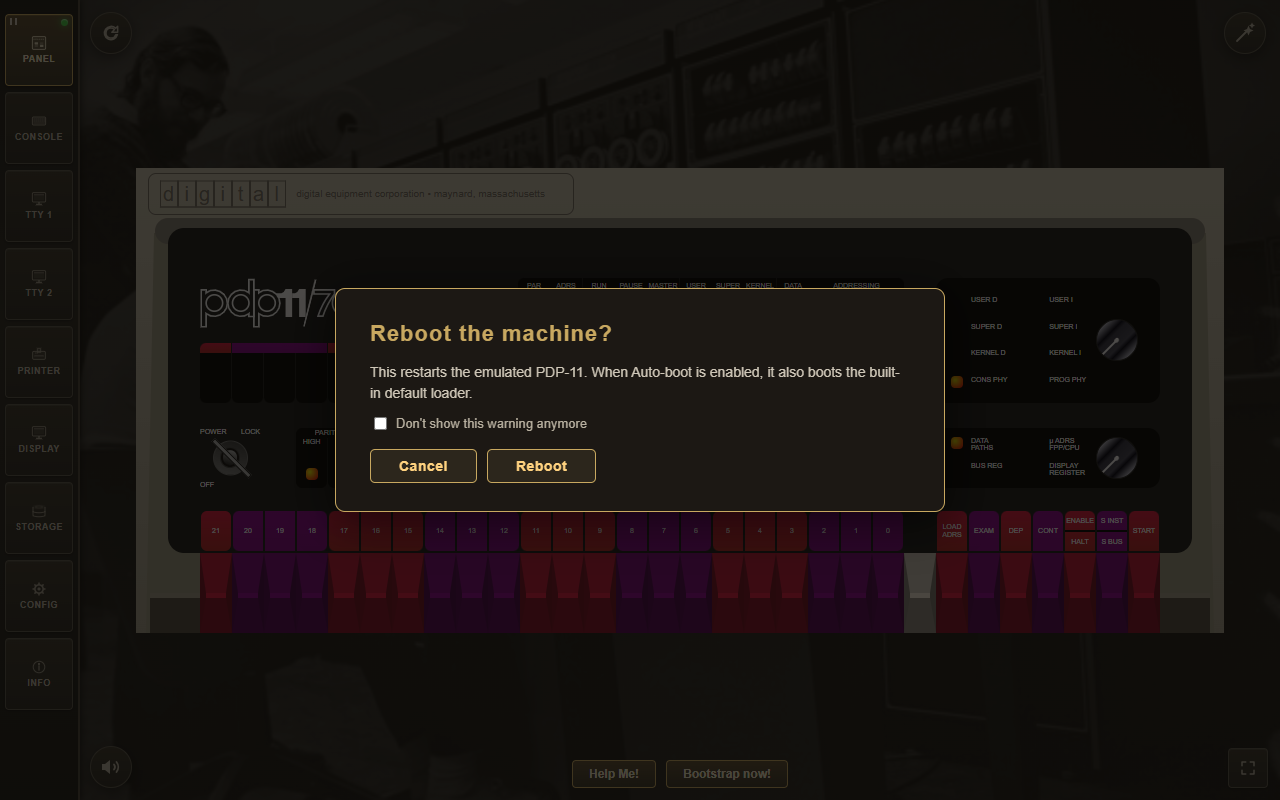
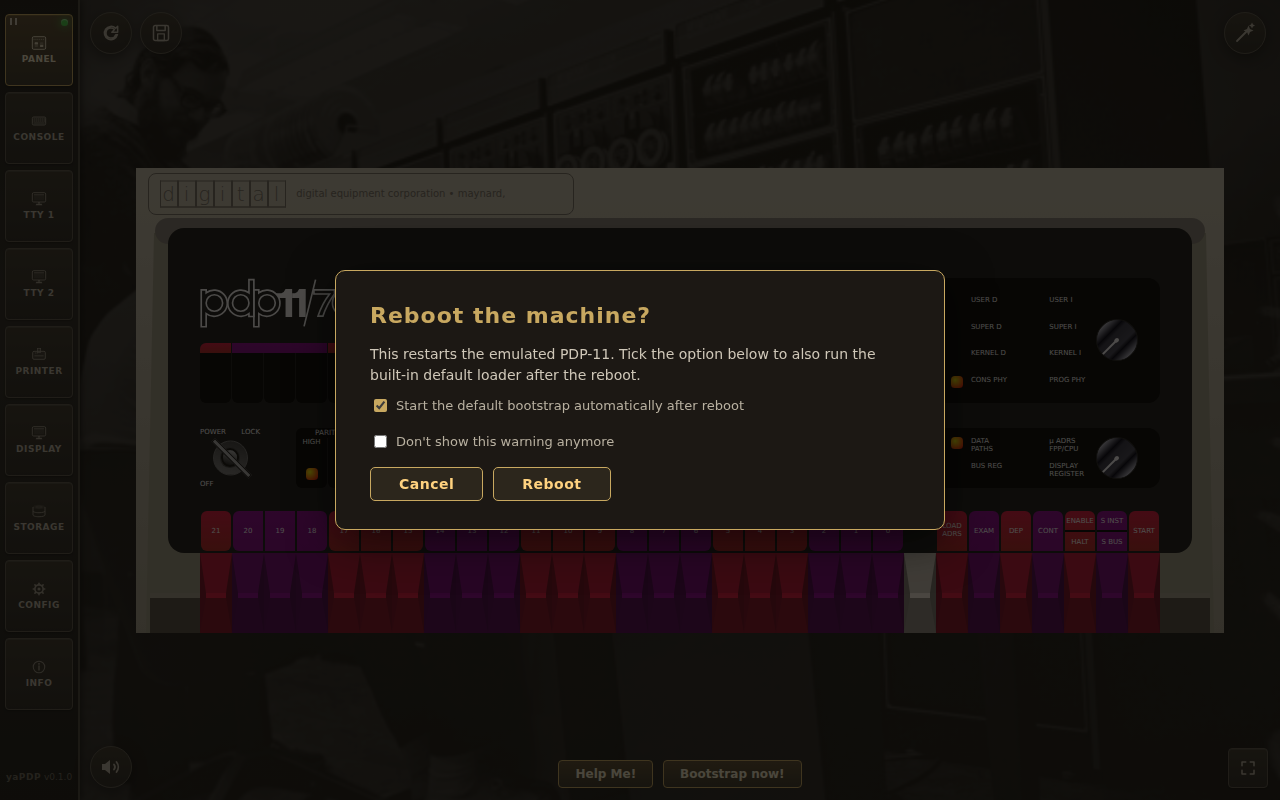
Reboot dialog: 'Start the default bootstrap automatically after reboot' checkbox (Auto-boot shortcut, synced with CONFIG|BEHAVIOUR)

diff --git a/src/pdp11-panel.js b/src/pdp11-panel.js
@@ -509,13 +509,29 @@ function examineDeposit(data) {
     rebootConfirmOverlay.innerHTML =
       '<div class="modal-box">' +
         '<span class="modal-title">Reboot the machine?</span>' +
-        '<p class="modal-intro">This restarts the emulated PDP-11. When Auto-boot is ' +
-        'enabled, it also boots the built-in default loader.</p>' +
+        '<p class="modal-intro">This restarts the emulated PDP-11. Tick the option ' +
+        'below to also run the built-in default loader after the reboot.</p>' +
+        '<label class="modal-dontask"><input type="checkbox" id="reboot-autoboot"> ' +
+        'Start the default bootstrap automatically after reboot</label>' +
         '<label class="modal-dontask"><input type="checkbox" id="reboot-dont-ask"> ' +
         'Don\'t show this warning anymore</label>' +
         '<button type="button" class="modal-close" data-reboot-action="cancel">Cancel</button>' +
         '<button type="button" class="modal-close" data-reboot-action="reboot">Reboot</button>' +
       '</div>';
+    // The new checkbox is a shortcut to the CONFIG|BEHAVIOUR Auto-boot option:
+    // persist it immediately and keep the Config form checkbox in sync so it
+    // never shows a stale value (autoBoot is not part of isDirty(), so the
+    // dirty marker stays untouched either way).
+    var rebootAutobootEl = rebootConfirmOverlay.querySelector('#reboot-autoboot');
+    if (rebootAutobootEl) {
+      rebootAutobootEl.addEventListener('change', function () {
+        if (typeof Config !== 'undefined' && Config.set) {
+          Config.set({ autoBoot: this.checked });
+        }
+        var cfgEl = document.getElementById('config-autoBoot');
+        if (cfgEl) cfgEl.checked = this.checked;
+      });
+    }
     rebootConfirmOverlay.addEventListener('click', function (e) {
       var action = e.target.getAttribute && e.target.getAttribute('data-reboot-action');
       if (action === 'cancel' || e.target === rebootConfirmOverlay) {
@@ -532,8 +548,12 @@ function examineDeposit(data) {
           var confirmRebootEl = document.getElementById('config-confirmReboot');
           if (confirmRebootEl) confirmRebootEl.checked = false;
         }
+        // This reboot follows the dialog's Auto-boot checkbox (a live mirror
+        // of the CONFIG|BEHAVIOUR option, persisted on change above).
+        var rebootAutoboot = document.getElementById('reboot-autoboot');
+        var autoboot = rebootAutoboot ? rebootAutoboot.checked : false;
         rebootConfirmOverlay.classList.remove('visible');
-        doReboot();
+        doReboot(autoboot);
       }
     });
     document.body.appendChild(rebootConfirmOverlay);
@@ -544,6 +564,13 @@ function examineDeposit(data) {
     var overlay = ensureRebootConfirm();
     var dontAsk = document.getElementById('reboot-dont-ask');
     if (dontAsk) dontAsk.checked = false; // never carry a stale "don't ask" tick
+    // Mirror the persisted Auto-boot choice every time the dialog opens, so
+    // the checkbox always reflects the config (it can change on the CONFIG
+    // page or via a snapshot restore while the dialog exists).
+    var autobootEl = document.getElementById('reboot-autoboot');
+    if (autobootEl && typeof Config !== 'undefined' && Config.get) {
+      autobootEl.checked = !!Config.get().autoBoot;
+    }
     overlay.classList.add('visible');
   }
 

diff --git a/manual.html b/manual.html
@@ -697,7 +697,8 @@
                         <li><b>Machine power</b> — the machine is powered on; switching it off powers down the PDP-11
                             (POWER LOCK in the off position).</li>
                         <li><b>Auto-boot</b> — start the default bootstrap automatically when the machine is powered
-                            on.</li>
+                            on or rebooted. The reboot confirmation dialog offers a shortcut to this option (its
+                            "Start the default bootstrap automatically after reboot" checkbox).</li>
                         <li><b>First-run hint</b> — replay the first-run welcome overlay with quick-start boot
                             suggestions on the next launch.</li>
                     </ul>
@@ -889,7 +890,10 @@
                         <td>Round button with a restart icon. Restarts the machine; when <a href="#config">Auto-boot</a>
                             is enabled it
                             also boots the built-in default loader. By default a confirmation dialog asks first, with
-                            a "Don't show this warning anymore" option.</td>
+                            a "Don't show this warning anymore" option. The dialog also carries an Auto-boot shortcut:
+                            tick <b>Start the default bootstrap automatically after reboot</b> to run the default
+                            loader after this reboot — it is the CONFIG <b>Auto-boot</b> option itself, persists, and
+                            stays in sync with the CONFIG page checkbox.</td>
                     </tr>
                     <tr>
                         <td class="disk control-cell">

diff --git a/pdp11.html b/pdp11.html
@@ -265,7 +265,7 @@
          data-action="reboot"; shown on the Panel, teletype and VT52 (TTY 1)
          pages. -->
     <button type="button" id="reboot-btn" class="console-reboot" data-action="reboot"
-      title="Restart the machine. With Auto-boot enabled, boots the built-in default loader."
+      title="Restart the machine. With Auto-boot enabled, boots the built-in default loader (toggle it in the confirmation dialog)."
       aria-label="Restart the machine">
       <svg class="console-reboot-icon" aria-hidden="true" focusable="false">
         <use href="#icon-reboot" />

diff --git a/CHANGELOG.md b/CHANGELOG.md
@@ -88,6 +88,12 @@ and this project adheres to [Semantic Versioning](https://semver.org/spec/v2.0.0
   all-holes RUB OUT row, exactly like a real ASR-33 receive punch. The LOCAL
   echo no longer punches a second row for bytes the keyboard punch already
   recorded ([`1671979`](https://github.com/amesk/yaPDP/commit/1671979)).
+- The reboot confirmation dialog ("Reboot the machine?") now carries an
+  Auto-boot shortcut: **Start the default bootstrap automatically after
+  reboot** — a live mirror of the CONFIG|BEHAVIOUR **Auto-boot** option. The
+  tick persists to the config, stays in sync with the CONFIG page checkbox
+  and decides whether this reboot runs the built-in default loader or lands
+  in a halted state.
 - The CCU knob (LINE/OFF/LOCAL) and the TAPE READER switch (START/STOP/FREE/AUTO)
   now turn by clicking the switch itself, not only the position labels: the
   knob/disc cycles one detent clockwise (LINE → OFF → LOCAL → LINE, START →
